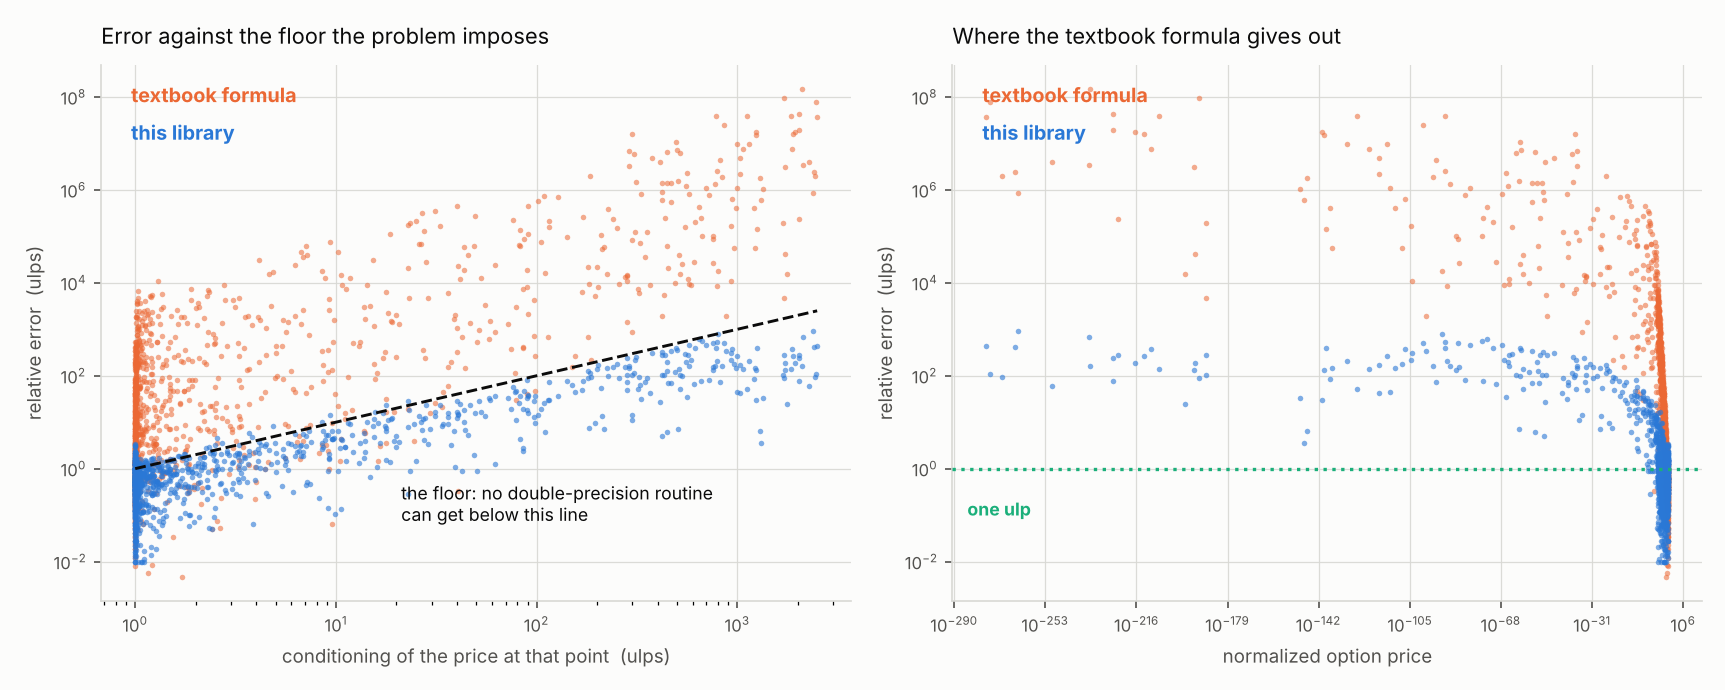
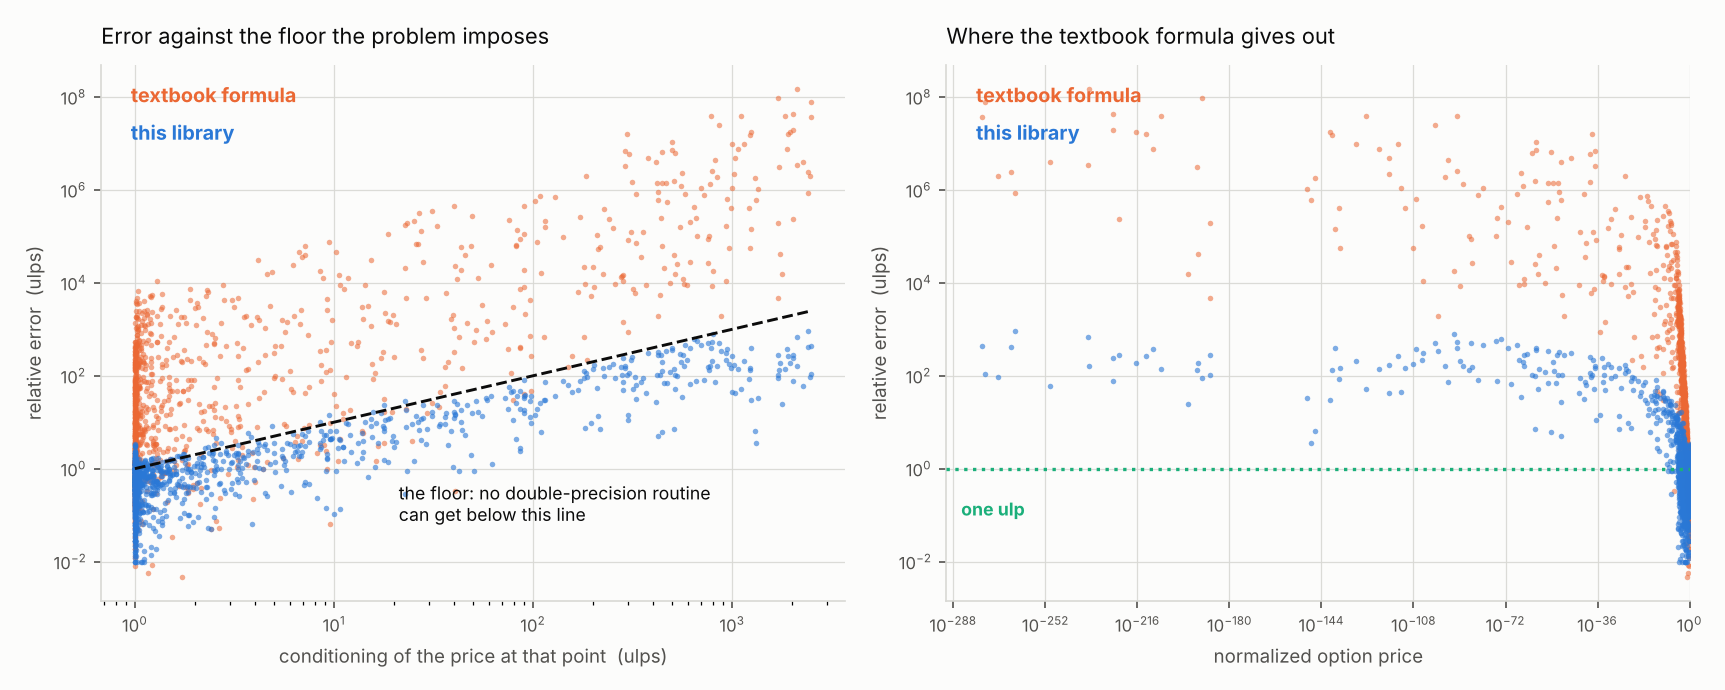
Stop smoke-test runs from overwriting committed results, and lint
Found by diffing every number quoted in a README against the committed
artefact it came from. Four of the five results files disagreed with the
figures beside them: precision.json claimed 121 points and a median of
0.57 ulps where the README and the figure said 1245 and 0.8.

The cause was mine. Verifying the CI smoke tests ran every experiment
with --quick, and --quick wrote to the same path as the full run, so a
hundredth of the work silently replaced the real numbers. The figures
survived because --quick skips plotting. This matters beyond the one
mistake: CI runs --quick on every push.

A --quick run now writes <name>_quick.json, which is gitignored, so a
smoke test cannot replace a result. The full runs are regenerating;
precision is done and is in this commit, the rest follow.

Also runs ruff for the first time -- it was configured in all three
pyproject files and had never been invoked. 62 findings, now zero across
src and tests. Mostly mechanical, but two were genuinely badly written:
a lambda invoked inline inside a list comprehension, and an unused
unpacked variable.

One autofix is reverted. Collapsing the backtester's two exit conditions
into a single or-expression is correct but reads worse: the branches are
take-profit and stop-loss, different reasons to be flat, and the
combined form leans on unparenthesised operator precedence. Restored
with a noqa and the reason.

diff --git a/src/volsurf/svi.py b/src/volsurf/svi.py
@@ -27,6 +27,7 @@ method, which collapses the problem to two dimensions -- see
 
 from __future__ import annotations
 
+import itertools
 from dataclasses import dataclass
 
 import numpy as np
@@ -36,13 +37,13 @@ from .normal import norm_pdf
 
 __all__ = [
     "SVIParams",
-    "total_variance",
-    "d_total_variance_dk",
-    "d2_total_variance_dk2",
     "butterfly_g",
-    "risk_neutral_density",
     "calibrate_slice",
     "check_calendar_spread",
+    "d2_total_variance_dk2",
+    "d_total_variance_dk",
+    "risk_neutral_density",
+    "total_variance",
 ]
 
 
@@ -303,7 +304,7 @@ def check_calendar_spread(slices, k_grid=None):
         k_grid = np.linspace(-1.5, 1.5, 601)
     k_grid = np.asarray(k_grid, dtype=float)
     worst = np.inf
-    for earlier, later in zip(ordered, ordered[1:]):
+    for earlier, later in itertools.pairwise(ordered):
         gap = total_variance(later, k_grid) - total_variance(earlier, k_grid)
         worst = min(worst, float(gap.min()))
     return worst if np.isfinite(worst) else 0.0

diff --git a/experiments/precision.py b/experiments/precision.py
@@ -178,7 +178,13 @@ def main():
     print(f"worst case as a multiple of the conditioning floor: "
           f"{summary['ours_worst_ratio_to_floor']:.2f}x")
 
-    (RESULTS / "precision.json").write_text(json.dumps(summary, indent=2) + "\n")
+    # A --quick run is a smoke test, not a result.  Writing it to the same
+    # path as the full run silently replaces the numbers the README quotes
+    # with ones from a hundredth of the work -- which is exactly what happened
+    # while verifying the CI smoke tests, leaving the committed JSON
+    # contradicting the committed figures.
+    suffix = "_quick" if args.quick else ""
+    (RESULTS / f"precision{suffix}.json").write_text(json.dumps(summary, indent=2) + "\n")
     if not args.quick:
         plot(rows, RESULTS / "precision.png")
 

diff --git a/experiments/round_trip.py b/experiments/round_trip.py
@@ -274,7 +274,13 @@ def main():
         repricing=repricing,
         convergence=convergence,
     )
-    (RESULTS / "round_trip.json").write_text(json.dumps(payload, indent=2) + "\n")
+    # A --quick run is a smoke test, not a result.  Writing it to the same
+    # path as the full run silently replaces the numbers the README quotes
+    # with ones from a hundredth of the work -- which is exactly what happened
+    # while verifying the CI smoke tests, leaving the committed JSON
+    # contradicting the committed figures.
+    suffix = "_quick" if args.quick else ""
+    (RESULTS / f"round_trip{suffix}.json").write_text(json.dumps(payload, indent=2) + "\n")
 
     if not args.quick:
         plot(surface, fit_report, repricing, convergence, RESULTS / "round_trip.png")

diff --git a/tests/test_black.py b/tests/test_black.py
@@ -2,15 +2,14 @@
 
 import numpy as np
 import pytest
-
 from reference import (
-    EPS,
     exact_conditioning,
     exact_normalized_black,
     requires_mpmath,
     textbook_normalized_black,
     ulp_error,
 )
+
 from volsurf.black import (
     CALL,
     PUT,
@@ -124,9 +123,9 @@ def test_every_greek_against_finite_differences(
     """
 
     def evaluate(**overrides):
-        args = dict(
-            spot=spot, strike=strike, expiry=expiry, vol=vol, rate=rate, carry=carry
-        )
+        args = {
+            "spot": spot, "strike": strike, "expiry": expiry, "vol": vol, "rate": rate, "carry": carry
+        }
         args.update(overrides)
         return float(price(option_type=option_type, **args))
 

diff --git a/src/volsurf/mc.py b/src/volsurf/mc.py
@@ -39,7 +39,7 @@ import numpy as np
 
 from .black import price as black_price
 
-__all__ = ["MCResult", "simulate_local_vol", "price_european", "convergence_study"]
+__all__ = ["MCResult", "convergence_study", "price_european", "simulate_local_vol"]
 
 
 @dataclass(frozen=True)
@@ -177,7 +177,7 @@ def price_european(
     resulting estimator stays unbiased because the control's mean is known
     exactly rather than simulated.
     """
-    terminal, gbm, n_fallbacks = simulate_local_vol(
+    terminal, gbm, _n_fallbacks = simulate_local_vol(
         surface, spot, expiry, n_paths, n_steps, rate, carry, seed
     )
     discount = np.exp(-float(rate) * float(expiry))

diff --git a/src/volsurf/black.py b/src/volsurf/black.py
@@ -20,7 +20,7 @@ familiar spot-space arguments and broadcast over all of them.
 
 from __future__ import annotations
 
-from dataclasses import dataclass, asdict
+from dataclasses import asdict, dataclass
 
 import numpy as np
 
@@ -33,14 +33,14 @@ from .normal import (
 )
 
 __all__ = [
-    "normalized_black",
-    "normalized_vega",
-    "forward_price",
-    "price",
-    "greeks",
-    "Greeks",
     "CALL",
     "PUT",
+    "Greeks",
+    "forward_price",
+    "greeks",
+    "normalized_black",
+    "normalized_vega",
+    "price",
 ]
 
 CALL = 1

diff --git a/src/volsurf/implied.py b/src/volsurf/implied.py
@@ -50,10 +50,10 @@ from dataclasses import dataclass
 
 import numpy as np
 
-from .black import CALL, PUT, _as_sign, forward_price, normalized_black, normalized_vega
+from .black import CALL, _as_sign, forward_price, normalized_black, normalized_vega
 from .normal import SQRT_TWO_PI, norm_ppf
 
-__all__ = ["implied_vol", "implied_vol_normalized", "InversionResult"]
+__all__ = ["InversionResult", "implied_vol", "implied_vol_normalized"]
 
 _MAX_ITERATIONS = 32
 _EPS = np.finfo(float).eps

diff --git a/src/volsurf/normal.py b/src/volsurf/normal.py
@@ -32,15 +32,15 @@ import numpy as np
 from scipy.special import erfcx, log_ndtr, ndtr, ndtri
 
 __all__ = [
-    "norm_pdf",
-    "norm_cdf",
-    "norm_logcdf",
-    "norm_ppf",
-    "mills_ratio",
-    "mills_difference",
+    "INV_SQRT_TWO_PI",
     "SQRT_TWO",
     "SQRT_TWO_PI",
-    "INV_SQRT_TWO_PI",
+    "mills_difference",
+    "mills_ratio",
+    "norm_cdf",
+    "norm_logcdf",
+    "norm_pdf",
+    "norm_ppf",
 ]
 
 SQRT_TWO = np.sqrt(2.0)

diff --git a/tests/test_heston.py b/tests/test_heston.py
@@ -14,7 +14,7 @@ from volsurf.heston import (
 )
 
 EQUITY = HestonParams(v0=0.045, kappa=1.3, theta=0.05, xi=0.65, rho=-0.72)
-MARKET = dict(spot=100.0, rate=0.025, carry=0.012)
+MARKET = {"spot": 100.0, "rate": 0.025, "carry": 0.012}
 
 
 def test_parameter_validation():

diff --git a/tests/test_mc.py b/tests/test_mc.py
@@ -9,7 +9,7 @@ from volsurf.mc import convergence_study, price_european, simulate_local_vol
 from volsurf.surface import LocalVolSurface
 from volsurf.svi import SVIParams
 
-MARKET = dict(rate=0.025, carry=0.012)
+MARKET = {"rate": 0.025, "carry": 0.012}
 SPOT = 100.0
 
 

diff --git a/src/volsurf/__init__.py b/src/volsurf/__init__.py
@@ -42,11 +42,11 @@ __all__ = [
     "HestonParams",
     "LocalVolSurface",
     "SVIParams",
+    "__version__",
     "calibrate_slice",
     "greeks",
     "implied_vol",
     "normalized_black",
     "price",
     "price_european",
-    "__version__",
 ]

diff --git a/tests/conftest.py b/tests/conftest.py
@@ -22,4 +22,4 @@ def wing_grid():
 @pytest.fixture
 def market():
     """A plain vanilla market: spot, rate and dividend yield."""
-    return dict(spot=100.0, rate=0.025, carry=0.012)
+    return {"spot": 100.0, "rate": 0.025, "carry": 0.012}
